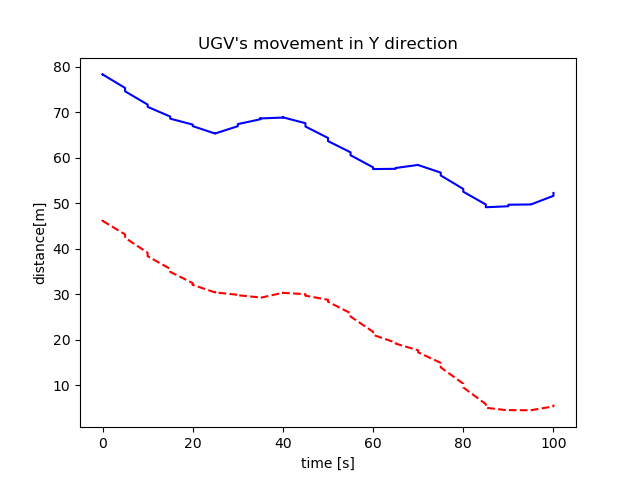
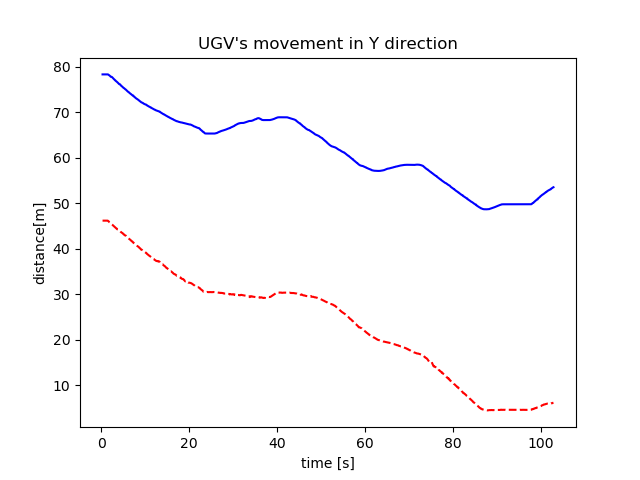
coding style

diff --git a/nodes/tf_reader.py b/nodes/tf_reader.py
@@ -22,39 +22,39 @@ def create_graphs(bag):
     cloud_combined = []
     saved_times = list()
     start_time = bag.get_start_time()
-    for topic, msg, time in bag.read_messages(topics=['/points']):
+    for idx, (topic, msg, time) in enumerate(bag.read_messages(topics=['/points'])):
         time = rospy.Time.from_sec(time.to_sec())
-        time_sec = time.to_sec()
-        save_time = int(time_sec - start_time)
-        if save_time % 5 == 0:
-            msg = PointCloud2(*slots(msg))
-            cloud = np.array(list(read_points(msg)))
-            try:
-                transform_icp = buffer.lookup_transform_full("map", time, "base_link", time, "map", rospy.Duration(1))
-                icp_x.append(transform_icp.transform.translation.x)
-                icp_y.append(transform_icp.transform.translation.y)
-                icp_z.append(transform_icp.transform.translation.z)
+        save_time = time.to_sec() - start_time
+        try:
+            transform_icp = buffer.lookup_transform_full("map", time, "base_link", time, "map", rospy.Duration(1))
+            icp_x.append(transform_icp.transform.translation.x)
+            icp_y.append(transform_icp.transform.translation.y)
+            icp_z.append(transform_icp.transform.translation.z)
 
-                transform_imu = buffer.lookup_transform_full("odom", time, "base_link", time, "odom", rospy.Duration(1))
-                imu_x.append(transform_imu.transform.translation.x)
-                imu_y.append(transform_imu.transform.translation.y)
-                imu_z.append(transform_imu.transform.translation.z)
+            transform_imu = buffer.lookup_transform_full("odom", time, "base_link", time, "odom", rospy.Duration(1))
+            imu_x.append(transform_imu.transform.translation.x)
+            imu_y.append(transform_imu.transform.translation.y)
+            imu_z.append(transform_imu.transform.translation.z)
 
-                saved_times.append(save_time)
-
+            saved_times.append(save_time)
+            if idx % 10 == 0:
+                print(idx)
+                msg = PointCloud2(*slots(msg))
+                cloud = np.array(list(read_points(msg)))
                 transform_map_os_sensor = buffer.lookup_transform_full("map", time, "os_sensor", time, "map",
                                                                        rospy.Duration(1))
                 matrix = numpify(transform_map_os_sensor.transform)
                 vectors = np.array([cloud[::200, 0], cloud[::200, 1], cloud[::200, 2]])
                 transformed_vectors = matrix[:3, :3] @ vectors + matrix[:3, 3:4]
                 cloud_combined.append(transformed_vectors)
-            except ExtrapolationException:
-                continue
+        except ExtrapolationException:
+            continue
     if len(cloud_combined) > 0:
         create_graph_tf_and_point_cloud(cloud_combined, icp_x, icp_y, imu_x, imu_y)
         create_graph_x_coord_and_time(icp_x, imu_x, saved_times)
         create_graph_y_coord_and_time(icp_y, imu_y, saved_times)
         create_graph_z_coord_and_time(icp_z, imu_z, saved_times)
+        create_graph_distance_and_time(icp_x, icp_y, icp_z, imu_x, imu_y, imu_z, saved_times)
 
         
 def slots(msg):
@@ -125,6 +125,22 @@ def create_graph_z_coord_and_time(icp_z, imu_z, saved_times):
     plt.xlabel('time [s]')
     plt.ylabel('distance[m]')
     plt.title("UGV's movement in Z direction")
+    ax.plot(saved_times, imu_z, color='blue')
+    ax.plot(saved_times, icp_z, color='red', linestyle='--')
+    plt.savefig(output_path)
+    plt.close()
+
+
+def create_graph_distance_and_time(icp_x, icp_y, icp_z, imu_x, imu_y, imu_z, saved_times):
+    output_path = "/home/robert/catkin_ws/src/bag_crawler/nodes/web_server/distance_and_time.png"
+    fig, ax = plt.subplots()
+    plt.xlabel('time [s]')
+    plt.ylabel('distance[m]')
+    plt.title("UGV's travelled distance over time")
+    icp_x = np.array(icp_x)
+    print()
+    icp_distances_x = np.abs(icp_x[1:] - icp_x[:-1])
+    print(icp_distances_x)
     ax.plot(saved_times, imu_z, color='blue')
     ax.plot(saved_times, icp_z, color='red', linestyle='--')
     plt.savefig(output_path)
